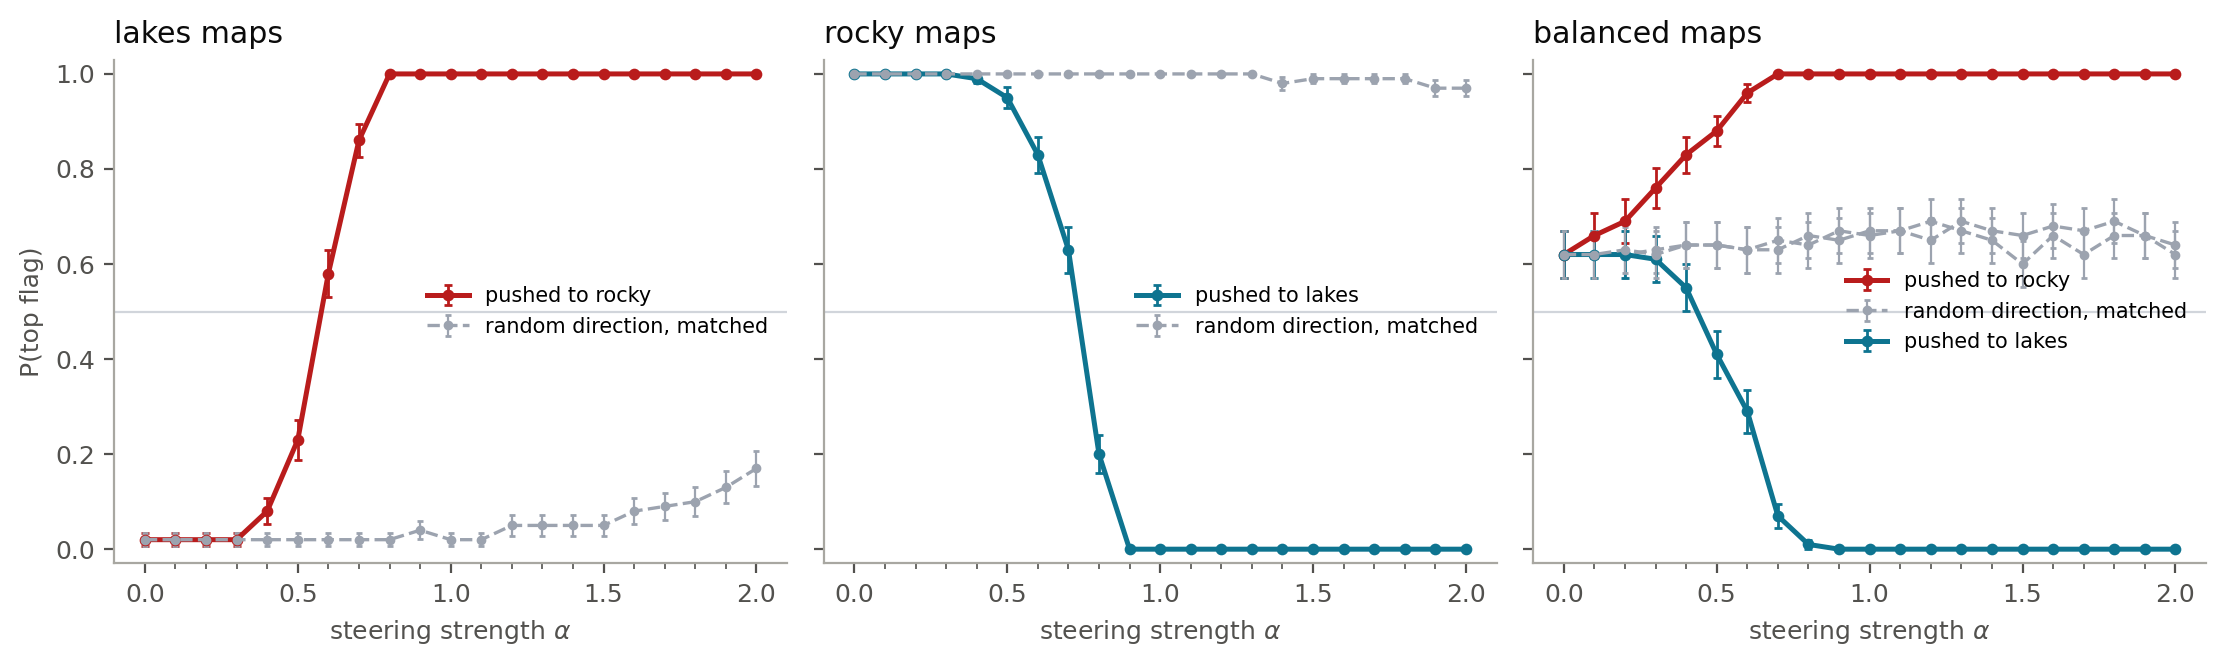
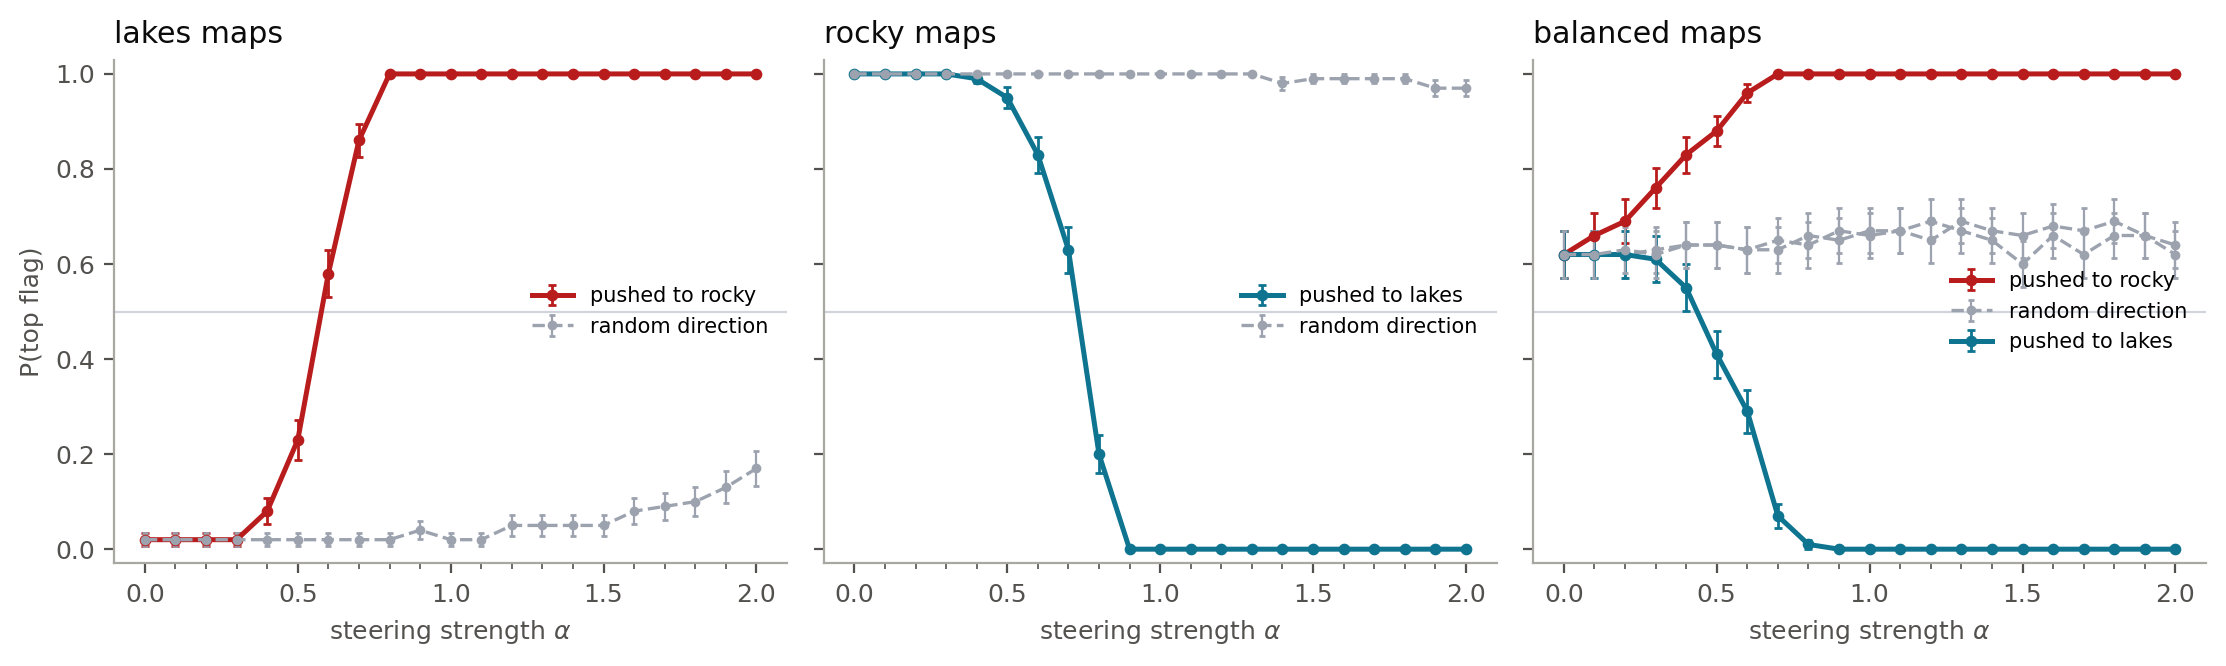
iab2026: Fig. 4 legend says 'random direction'
Claude-Session: https://claude.ai/code/session_01J5XN9pUg9gxBCqVt8K5kAW

Changed region(s): [[0.8369, 0.3904, 0.9919, 0.5405], [0.496, 0.4204, 0.6819, 0.5105], [0.186, 0.4204, 0.341, 0.5105]]

diff --git a/scripts/figures/paper/iab_appendix_figs.py b/scripts/figures/paper/iab_appendix_figs.py
@@ -337,7 +337,7 @@ def fig_steer(site="corr2", xmax=2.0, tag="finectrl", out="fig_results_causal.pn
                     xc, yc, ec, _ = curve(cat, sgn, "control")
                     ax.errorbar(xc, yc, yerr=ec, color="#9ca3af", lw=1.2, ls="--", ms=2.5, marker="o",
                                 capsize=1.2, elinewidth=.8, zorder=2,
-                                label="random direction, matched" if (sgn > 0 or cat != "balanced") else None)
+                                label="random direction" if (sgn > 0 or cat != "balanced") else None)
             ax.axhline(.5, color="#d1d5db", lw=.8, zorder=0)
             ax.set_ylim(-.03, 1.03); ax.set_xlabel(xlabel)
             ax.set_xticks(np.arange(0, xmax + 1e-9, 0.5)); ax.set_xticks(alphas, minor=True)
